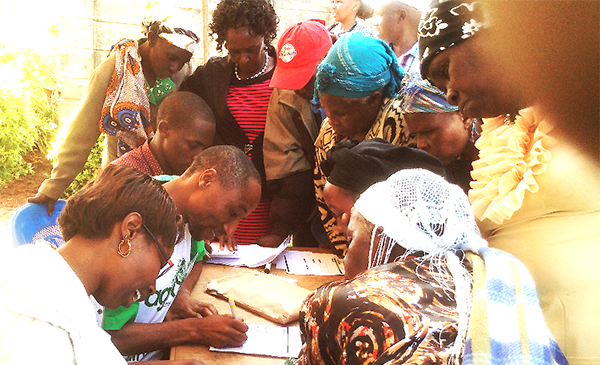
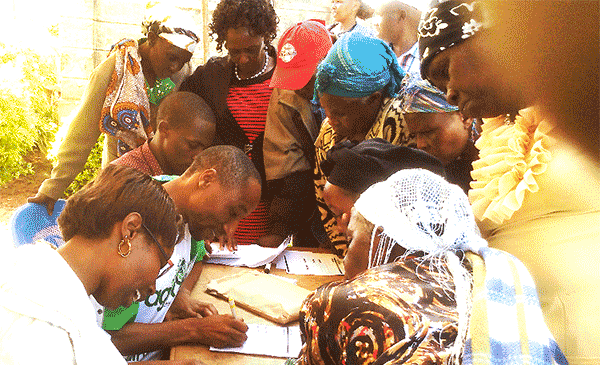
zegetech-jekyll V 0.0.05 Optimised and compressed assets

diff --git a/assets/css/styles.css b/assets/css/styles.css
@@ -240,7 +240,7 @@ body.no-header-wrapper {
   min-height: 400px;
 }
 .header-wrapper-about {
-  background: #65758e url('../images/background/heading-background-2.png') no-repeat 50% top;
+  background: #65758e url('../images/background/heading-background-2.jpg') no-repeat 50% top;
   -webkit-background-size: cover;
   -moz-background-size: cover;
   -o-background-size: cover;
@@ -587,7 +587,7 @@ body.no-header-wrapper {
   opacity: 1;
 }
 .latest-work .item.item-1 .figure-container a {
-  background: #65758e url('../images/work/work-example-1.1.png') no-repeat 50% 50%;
+  background: #65758e url('../images/work/work-example-1.1.jpg') no-repeat 50% 50%;
   -webkit-background-size: cover;
   -moz-background-size: cover;
   -o-background-size: cover;
@@ -595,7 +595,7 @@ body.no-header-wrapper {
 }
 .latest-work .item.item-2 .figure-container a {
   display: block;
-  background: #65758e url('../images/work/work-example-2.1.png') no-repeat 50% 50%;
+  background: #65758e url('../images/work/work-example-2.1.jpg') no-repeat 50% 50%;
   -webkit-background-size: cover;
   -moz-background-size: cover;
   -o-background-size: cover;
